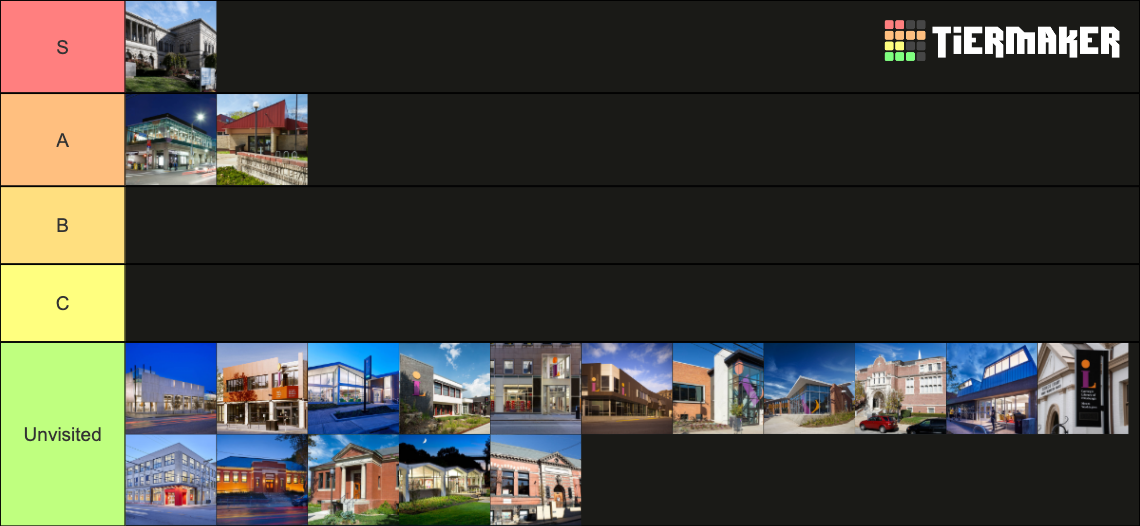
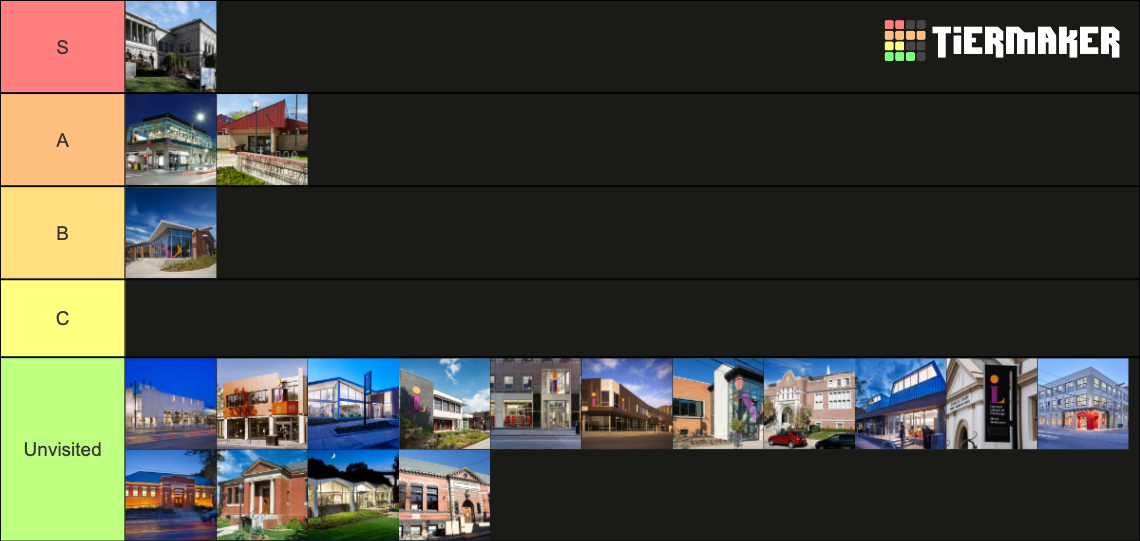
hill

diff --git a/blog-entries/library/library.html b/blog-entries/library/library.html
@@ -54,6 +54,37 @@
     <img id="tl" src="img/TL.png">
     <figcaption>Subject to change as more libraries are visited</figcaption>
 
+    <h2 id="Hill"><span class="highlight">Hill District</span></h2>
+    <div class="container">
+        <div class="row">
+            <div class="column column0 quickfacts">
+                <h2><span class="highlight">Quick Facts</span></h2>
+                <ul>
+                    <li>Tier: B</li>
+                    <li>Date Visited: 9/9/2023 </li>
+                    <li>Travel time: 35 minutes </li>
+                </ul>
+
+            </div>
+            <div class="column column1 experience">
+                <h2><span class="highlight">Notes</span></h2>
+                <p>
+                    A bit of an underwhelming library. It's too big to be cozy, but too small to have
+                    the majestic feel of Squirrel Hill or Oakland. I went with my friend Xander which was
+                    really fun though! There isn't enough around the library to make the trip worth it.
+                    To be honest the picture I think it makes it look nicer than it actually feels,
+                    but maybe it was having an off-day. Who knows?
+                    Not a bad library by any means, but nothing super notable. Solid B tier.
+                </p>
+            </div>
+
+            <div class="column column2 pics">
+                <h2><span class="highlight">Picture Gallery</span></h2>
+                <img class="gallery" src="img/hill/stamp.jpg">
+                <img class="gallery thumbnail" src="img/hill/hillDistrict.jpg">
+            </div>
+        </div>
+
     <h2 id="Sheraden"><span class="highlight">Sheraden</span></h2>
     <div class="container">
         <div class="row">
@@ -213,7 +244,7 @@
                             The only downside of this library is that the rooms are very echoey, so it's easy to
                             accidentally be
                             very loud and disturb
-                            people when shuffling through a bag, for example. However, it's easily an S-tier library,
+                            people when shuffling through a bag, for example. However, it's easily an S tier library,
                             highly
                             recommended.
                         </p>
